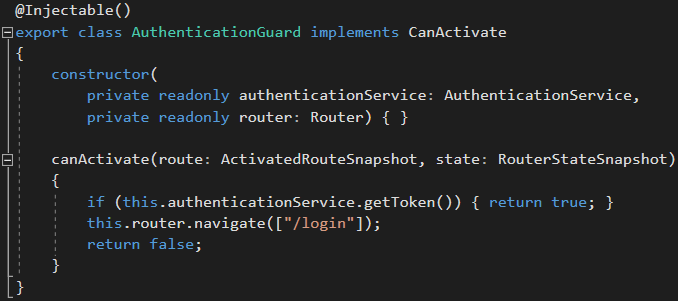
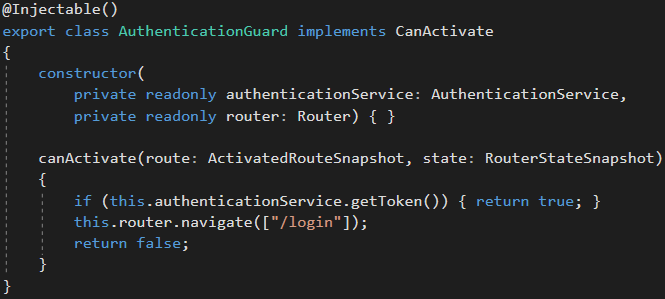
.

diff --git a/Web/AspNetCoreAngular/ClientApp/src/app/shared/guards/authentication.guard.ts b/Web/AspNetCoreAngular/ClientApp/src/app/shared/guards/authentication.guard.ts
@@ -11,7 +11,7 @@ export class AuthenticationGuard implements CanActivate
 		private readonly authenticationService: AuthenticationService,
 		private readonly router: Router) { }
 
-	canActivate(route: ActivatedRouteSnapshot, state: RouterStateSnapshot): Observable<boolean> | boolean
+	canActivate(route: ActivatedRouteSnapshot, state: RouterStateSnapshot)
 	{
 		if (this.authenticationService.getToken()) { return true; }
 		this.router.navigate(["/login"]);

diff --git a/Web/AspNetCoreAngular/ClientApp/src/app/shared/components/select/select.component.ts b/Web/AspNetCoreAngular/ClientApp/src/app/shared/components/select/select.component.ts
@@ -6,7 +6,7 @@ import { Option } from "../../models/option.model";
 	inputs: ["options"],
 	providers: [{ provide: NG_VALUE_ACCESSOR, useExisting: AppSelectComponent, multi: true }],
 	selector: "app-select",
-	templateUrl: "./select.component.html",
+	templateUrl: "./select.component.html"
 })
 export class AppSelectComponent implements ControlValueAccessor
 {

diff --git a/Web/AspNetCoreAngular/ClientApp/src/app/shared/components/select/select.component.html b/Web/AspNetCoreAngular/ClientApp/src/app/shared/components/select/select.component.html
@@ -1,4 +1,4 @@
 <select #select (change)="onChange(select.value)" [attr.required]="required">
 	<option value="" selected [attr.disabled]="required"></option>
-	<option *ngFor="let o of options" [value]="o.value">{{o.label}}</option>
+	<option *ngFor="let option of options" [value]="option.value">{{option.label}}</option>
 </select>

diff --git a/Web/AspNetCoreAngular/ClientApp/src/app/shared/interceptors/http.interceptor.ts b/Web/AspNetCoreAngular/ClientApp/src/app/shared/interceptors/http.interceptor.ts
@@ -1,6 +1,5 @@
 import { HttpRequest, HttpHandler, HttpEvent, HttpInterceptor } from "@angular/common/http";
 import { Injectable, Injector } from "@angular/core";
-import { Observable } from "rxjs/Observable";
 
 import { AuthenticationService } from "../services/authentication.service";
 

diff --git a/Web/AspNetCoreAngular/ClientApp/src/app/shared/components/input/input.component.html b/Web/AspNetCoreAngular/ClientApp/src/app/shared/components/input/input.component.html
@@ -1,1 +1,1 @@
-<input [type]="type" #input (input)="onChange(input.value)" [attr.required]="required" />
+<input #input [type]="type" (input)="onChange(input.value)" [attr.required]="required" />

diff --git a/Web/AspNetCoreAngular/ClientApp/src/app/shared/directives/directives.module.ts b/Web/AspNetCoreAngular/ClientApp/src/app/shared/directives/directives.module.ts
@@ -12,7 +12,6 @@ import { ValidationModule } from "./validation/validation.module";
 		CommonModule,
 		FormsModule,
 		ReactiveFormsModule,
-
 		ValidationModule
 	]
 })
